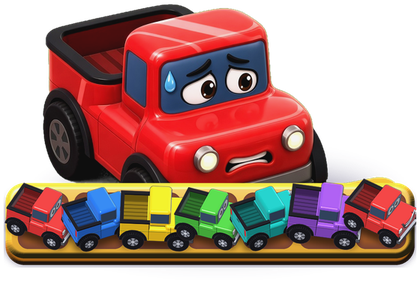
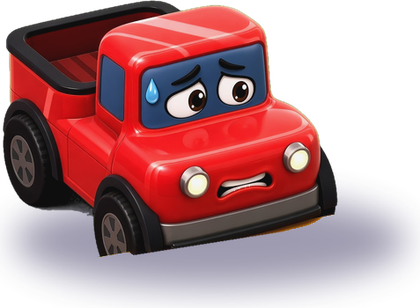
Lose popup: drop ad caption, hero is truck + contact shadow only (no bar), tighter card

diff --git a/Assets/_Project/Scripts/App/CarMatchApp.cs b/Assets/_Project/Scripts/App/CarMatchApp.cs
@@ -2403,14 +2403,14 @@ namespace CarMatch
             dimImage.color = new Color(0.10f, 0.06f, 0.18f, 0.55f);
 
             // 9-slice card (insets 84/84/84, bottom 96 for the 3D lip).
-            var card = Place(_screen, "FailCard", new Vector2(0f, -40f), new Vector2(920f, 1400f));
+            var card = Place(_screen, "FailCard", new Vector2(0f, -40f), new Vector2(920f, 1260f));
             var cardImage = card.gameObject.AddComponent<Image>();
             cardImage.sprite = UiArt.Get("lose_panel") ?? SpriteKit.Round;
             cardImage.type = Image.Type.Sliced;
             cardImage.raycastTarget = false;
 
             // Word-art title overlapping the card's top edge.
-            var title = Place(_screen, "FailTitle", new Vector2(0f, 700f), new Vector2(940f, 254f));
+            var title = Place(_screen, "FailTitle", new Vector2(0f, 630f), new Vector2(940f, 254f));
             var titleArt = UiArt.Get("lose_title");
             if (titleArt != null)
             {
@@ -2426,7 +2426,7 @@ namespace CarMatch
                 Outlined(tt, ink, 5f);
             }
 
-            var hero = Place(card, "FailHero", new Vector2(0f, 360f), new Vector2(720f, 487f));
+            var hero = Place(card, "FailHero", new Vector2(0f, 370f), new Vector2(640f, 470f));
             var heroImage = hero.gameObject.AddComponent<Image>();
             heroImage.sprite = UiArt.Get("lose_hero");
             heroImage.preserveAspect = true;
@@ -2434,12 +2434,12 @@ namespace CarMatch
             if (heroImage.sprite == null) heroImage.enabled = false;
 
             string headline = string.IsNullOrEmpty(status) ? "No open slot left!" : status;
-            var head = Place(card, "FailHead", new Vector2(0f, 72f), new Vector2(820f, 80f));
+            var head = Place(card, "FailHead", new Vector2(0f, 90f), new Vector2(820f, 80f));
             var headText = AddText(head, headline, 54, ink, TextAnchor.MiddleCenter);
             headText.font = font;
 
             // Heart + rule, then the live lives/timer line (refreshed in Update).
-            var rule = Place(card, "FailRule", new Vector2(0f, -8f), new Vector2(820f, 56f));
+            var rule = Place(card, "FailRule", new Vector2(0f, 15f), new Vector2(820f, 56f));
             var ruleText = AddText(rule, "Retry or Home uses a life", 38, ink, TextAnchor.MiddleCenter);
             ruleText.font = font;
             float ruleW = ruleText.preferredWidth;
@@ -2448,18 +2448,15 @@ namespace CarMatch
             heartImage.sprite = UiArt.Get("lose_heart") ?? UiArt.Get("icon_heart") ?? SpriteKit.Heart;
             heartImage.preserveAspect = true;
             heartImage.raycastTarget = false;
-            var lives = Place(card, "FailLives", new Vector2(0f, -62f), new Vector2(820f, 50f));
+            var lives = Place(card, "FailLives", new Vector2(0f, -38f), new Vector2(820f, 50f));
             _failLivesText = AddText(lives, FailLivesLine(), 34, new Color(0.85f, 0.30f, 0.22f, 1f), TextAnchor.MiddleCenter);
             _failLivesText.font = font;
 
-            var cont = LoseButton(card, "lose_btn_continue", new Vector2(0f, -200f), 780f, 150f, "Park 3 Cars", 64, OnContinue, true);
+            var cont = LoseButton(card, "lose_btn_continue", new Vector2(0f, -165f), 780f, 150f, "Park 3 Cars", 64, OnContinue, true);
             cont.interactable = !_busy;
-            var cap = Place(card, "FailAdNote", new Vector2(0f, -305f), new Vector2(820f, 44f));
-            var capText = AddText(cap, "Free with a short video", 30, new Color(0.40f, 0.30f, 0.45f, 1f), TextAnchor.MiddleCenter);
-            capText.font = font;
-            _retryButton = LoseButton(card, "lose_btn_retry", new Vector2(0f, -420f), 780f, 150f, "Retry", 68, OnRetry, false);
+            _retryButton = LoseButton(card, "lose_btn_retry", new Vector2(0f, -335f), 780f, 150f, "Retry", 68, OnRetry, false);
             _retryButton.interactable = !_busy && Purse.Wallet.Lives > 0;
-            LoseButton(card, "lose_btn_home", new Vector2(0f, -585f), 480f, 124f, "Home", 54, OnHome, false);
+            LoseButton(card, "lose_btn_home", new Vector2(0f, -495f), 480f, 124f, "Home", 54, OnHome, false);
         }
 
         // Lives line on the lose card: "Lives 4  ·  next life in 17:48", or "Lives 5" when full.
